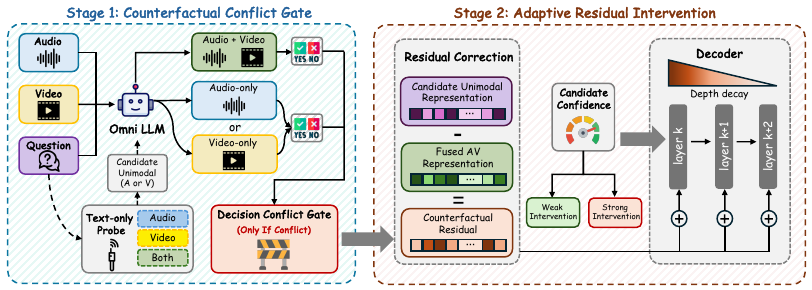
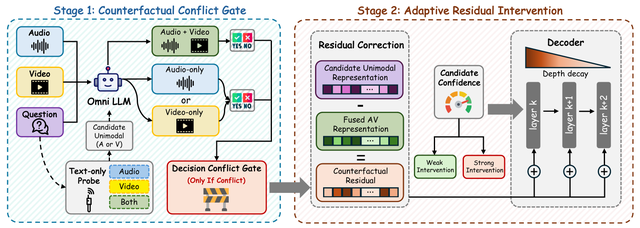
Add high-resolution paper figures with click-to-zoom dialog

diff --git a/index.html b/index.html
@@ -83,7 +83,7 @@
           <div class="section-heading"><h2 id="publications-title">Selected Publications</h2><a class="section-link" href="https://scholar.google.com/citations?user=WNUBh34AAAAJ">Google Scholar<svg class="icon inline-arrow" aria-hidden="true"><use href="#icon-arrow"/></svg></a></div>
           <div class="publication-list">
             <article class="publication" aria-labelledby="care-title">
-              <a class="paper-figure" href="https://www.alphaxiv.org/abs/2610.18141" aria-label="Read CaRe on alphaXiv"><img src="assets/images/care.png" width="812" height="290" alt="CaRe framework: conflict-aware counterfactual probing and residual intervention for modality misrouting." loading="lazy" decoding="async"></a>
+              <button class="paper-figure" type="button" aria-label="Enlarge CaRe figure"><img src="assets/images/care.png" data-full-src="assets/images/care-large.png" width="640" height="228" alt="CaRe framework: conflict-aware counterfactual probing and residual intervention for modality misrouting." loading="lazy" decoding="async"></button>
               <div class="paper-content">
                 <h3 id="care-title"><a href="https://www.alphaxiv.org/abs/2610.18141">Mitigating Cross-Modal Hallucinations by Correcting Modality Misrouting in Omnimodal LLMs</a></h3>
                 <p class="authors"><strong>Yu Mi</strong>, Licheng Pan, Jiayi Zhu, et al.</p>
@@ -94,7 +94,7 @@
             </article>
 
             <article class="publication" aria-labelledby="scope-title">
-              <a class="paper-figure" href="https://www.alphaxiv.org/abs/2610.38391" aria-label="Read SCOPE on alphaXiv"><img src="assets/images/scope.png" width="1032" height="486" alt="SCOPE framework for learning error localization and selectively distilling corrections at critical steps." loading="lazy" decoding="async"></a>
+              <button class="paper-figure" type="button" aria-label="Enlarge SCOPE figure"><img src="assets/images/scope.png" data-full-src="assets/images/scope-large.png" width="640" height="304" alt="SCOPE framework for learning error localization and selectively distilling corrections at critical steps." loading="lazy" decoding="async"></button>
               <div class="paper-content">
                 <h3 id="scope-title"><a href="https://www.alphaxiv.org/abs/2610.38391">SCOPE: Selective Critical-Step On-Policy Self-Distillation for Agentic Reinforcement Learning</a></h3>
                 <p class="authors">Qirui Liu, Wei Cao, <strong>Yu Mi</strong>, et al.</p>
@@ -107,7 +107,7 @@
             </article>
 
             <article class="publication" aria-labelledby="lfrag-title">
-              <a class="paper-figure" href="https://www.alphaxiv.org/abs/2605.22829" aria-label="Read LFRAG on alphaXiv"><img src="assets/images/lfrag.png" width="1008" height="327" alt="LFRAG framework for layout-aware block-level retrieval and multimodal document question answering." loading="lazy" decoding="async"></a>
+              <button class="paper-figure" type="button" aria-label="Enlarge LFRAG figure"><img src="assets/images/lfrag.png" data-full-src="assets/images/lfrag-large.png" width="640" height="206" alt="LFRAG framework for layout-aware block-level retrieval and multimodal document question answering." loading="lazy" decoding="async"></button>
               <div class="paper-content">
                 <h3 id="lfrag-title"><a href="https://www.alphaxiv.org/abs/2605.22829">LFRAG: Layout-oriented Fine-grained Retrieval-Augmented Generation on Multimodal Document Understanding</a></h3>
                 <p class="authors">Yifan Zhu, <strong>Yu Mi</strong>, Yue Lu, Yanchu Guan, Zhixuan Chu</p>
@@ -119,7 +119,7 @@
             </article>
 
             <article class="publication" aria-labelledby="lsc-title">
-              <a class="paper-figure" href="https://www.alphaxiv.org/abs/2601.19918" aria-label="Read LSC on alphaXiv"><img src="assets/images/lsc.png" width="451" height="332" alt="Algorithm 1 from the LSC paper: reconstruct words, average adjacent-word confidence, and select the least confident span." loading="lazy" decoding="async"></a>
+              <button class="paper-figure" type="button" aria-label="Enlarge LSC figure"><img src="assets/images/lsc.png" data-full-src="assets/images/lsc-large.png" width="640" height="478" alt="Algorithm 1 from the LSC paper: reconstruct words, average adjacent-word confidence, and select the least confident span." loading="lazy" decoding="async"></button>
               <div class="paper-content">
                 <h3 id="lsc-title"><a href="https://www.alphaxiv.org/abs/2601.19918">Lowest Span Confidence: Zero-Shot Hallucination Detection from a Single LLM Response</a></h3>
                 <p class="authors">Yitong Qiao, Licheng Pan, <strong>Yu Mi</strong>, Lei Liu, et al.</p>
@@ -130,7 +130,7 @@
             </article>
 
             <article class="publication" aria-labelledby="eopsa-title">
-              <a class="paper-figure" href="https://www.alphaxiv.org/abs/2609.34519" aria-label="Read EOPSA on alphaXiv"><img src="assets/images/eopsa.png" width="811" height="324" alt="EOPSA framework with adaptive rollout scheduling and selective distillation of safety-critical tokens." loading="lazy" decoding="async"></a>
+              <button class="paper-figure" type="button" aria-label="Enlarge EOPSA figure"><img src="assets/images/eopsa.png" data-full-src="assets/images/eopsa-large.png" width="640" height="262" alt="EOPSA framework with adaptive rollout scheduling and selective distillation of safety-critical tokens." loading="lazy" decoding="async"></button>
               <div class="paper-content">
                 <h3 id="eopsa-title"><a href="https://www.alphaxiv.org/abs/2609.34519">EOPSA: Efficient On-Policy Self-Distilled Safety Alignment</a></h3>
                 <p class="authors">Qirui Liu, Yichen Sun, Yan Wang, <strong>Yu Mi</strong>, et al.</p>

diff --git a/figure-preview.js b/figure-preview.js
@@ -2,69 +2,44 @@
   const figures = document.querySelectorAll('.paper-figure');
   if (!figures.length) return;
 
-  const preview = document.createElement('div');
+  const preview = document.createElement('dialog');
   preview.className = 'figure-preview';
-  preview.hidden = true;
-  preview.setAttribute('aria-hidden', 'true');
+  preview.id = 'figure-preview';
+  preview.setAttribute('aria-label', 'Enlarged paper figure');
+
   const enlarged = document.createElement('img');
-  enlarged.alt = '';
   enlarged.decoding = 'async';
   preview.append(enlarged);
   document.body.append(preview);
 
-  function hide() {
-    preview.hidden = true;
-  }
+  let opener = null;
 
-  function show(figure) {
-    const image = figure.querySelector('img');
-    if (!image) return;
-    const margin = 16;
-    const frame = 26; // Two 12px paddings and two 1px borders.
-    const headerBottom = document.querySelector('.site-header')?.getBoundingClientRect().bottom ?? 0;
-    const topLimit = Math.max(margin, headerBottom + 12);
-    const maxWidth = Math.min(900, window.innerWidth - margin * 2) - frame;
-    const maxHeight = Math.min(620, window.innerHeight - topLimit - margin) - frame;
-    if (maxWidth < 80 || maxHeight < 80) return hide();
-
-    const sourceWidth = image.naturalWidth || image.width;
-    const sourceHeight = image.naturalHeight || image.height;
-    if (!sourceWidth || !sourceHeight) return hide();
-    const scale = Math.min(1, maxWidth / sourceWidth, maxHeight / sourceHeight);
-    const width = sourceWidth * scale + frame;
-    const height = sourceHeight * scale + frame;
-    const rect = figure.getBoundingClientRect();
-    const left = Math.max(margin, Math.min(rect.right + 14, window.innerWidth - width - margin));
-    const top = Math.max(topLimit, Math.min(rect.top + (rect.height - height) / 2, window.innerHeight - height - margin));
-
-    const source = image.currentSrc || image.src;
-    if (enlarged.src !== source) enlarged.src = source;
-    Object.assign(preview.style, {
-      width: `${width}px`, height: `${height}px`,
-      left: `${left}px`, top: `${top}px`,
-    });
-    preview.hidden = false;
+  function close() {
+    preview.close();
   }
 
   figures.forEach(figure => {
-    figure.addEventListener('pointerenter', event => {
-      if (event.pointerType !== 'touch' && window.matchMedia('(any-hover: hover)').matches) show(figure);
+    figure.setAttribute('aria-haspopup', 'dialog');
+    figure.setAttribute('aria-controls', preview.id);
+    figure.addEventListener('click', () => {
+      const image = figure.querySelector('img');
+      if (!image || preview.open) return;
+      opener = figure;
+      enlarged.src = image.dataset.fullSrc || image.currentSrc || image.src;
+      enlarged.alt = image.alt;
+      preview.showModal();
+      document.documentElement.classList.add('figure-preview-open');
     });
-    figure.addEventListener('pointerleave', hide);
-    figure.addEventListener('focus', () => {
-      if (figure.matches(':focus-visible')) show(figure);
-    });
-    figure.addEventListener('blur', hide);
-    figure.addEventListener('click', hide);
   });
-  window.addEventListener('scroll', () => {
-    const focused = document.activeElement;
-    if (!preview.hidden && focused?.matches('.paper-figure:focus-visible')) show(focused);
-    else hide();
-  }, { passive: true });
-  window.addEventListener('resize', hide);
-  window.addEventListener('blur', hide);
-  window.addEventListener('keydown', event => {
-    if (event.key === 'Escape') hide();
+
+  // A backdrop click targets the dialog; clicking the image keeps it open.
+  preview.addEventListener('click', event => {
+    if (event.target === preview) close();
   });
+  preview.addEventListener('close', () => {
+    document.documentElement.classList.remove('figure-preview-open');
+    opener?.focus({ preventScroll: true });
+    opener = null;
+  });
+  // Native dialog handles Escape, focus trapping, and an inert background.
 })();

diff --git a/styles.css b/styles.css
@@ -78,14 +78,16 @@ main section { margin-bottom: 38px; }
 .section-link { font-size: 12px; white-space: nowrap; }
 .publication-list { border-top: 1px solid var(--rule); }
 .publication { display: grid; grid-template-columns: 170px minmax(0, 1fr); gap: 24px; padding: 25px 0; border-bottom: 1px solid var(--rule); }
-.paper-figure { display: flex; align-items: center; justify-content: center; align-self: start; margin-top: 3px; min-height: 100px; padding: 6px; border: 1px solid var(--rule); border-radius: 4px; background: #fff; transition: border-color .15s ease; }
+.paper-figure { display: flex; align-items: center; justify-content: center; align-self: start; width: 100%; margin-top: 3px; min-height: 100px; padding: 6px; border: 1px solid var(--rule); border-radius: 4px; background: #fff; font: inherit; cursor: zoom-in; transition: border-color .15s ease; }
 .paper-figure:hover { border-color: #9aafb9; }
+.paper-figure:focus-visible { outline: 2px solid var(--accent); outline-offset: 5px; }
 .paper-figure img { width: 100%; height: auto; object-fit: contain; }
-.figure-preview { position: fixed; z-index: 25; padding: 12px; border: 1px solid #d8e2e8; border-radius: 10px; background: #fff; box-shadow: 0 12px 44px #26343d30, 0 2px 8px #26343d12; pointer-events: none; }
-.figure-preview[hidden] { display: none; }
-.figure-preview:not([hidden]) { animation: figure-reveal .18s ease-out; }
-.figure-preview img { width: 100%; height: 100%; object-fit: contain; }
-@keyframes figure-reveal { from { opacity: 0; transform: translateY(5px) scale(.98); } to { opacity: 1; transform: translateY(0) scale(1); } }
+.figure-preview-open { overflow: hidden; }
+.figure-preview { position: fixed; inset: 0; width: fit-content; height: fit-content; max-width: calc(100vw - 32px); max-height: calc(100dvh - 96px); margin: auto; padding: 0; border: 0; overflow: visible; background: transparent; color: #fff; }
+.figure-preview::backdrop { background: #17293699; -webkit-backdrop-filter: blur(8px); backdrop-filter: blur(8px); }
+.figure-preview[open] { animation: figure-reveal .2s ease-out; }
+.figure-preview img { display: block; width: auto; height: auto; max-width: min(1100px, calc(100vw - 48px)); max-height: calc(100dvh - 112px); border: 10px solid #fff; border-radius: 10px; background: #fff; object-fit: contain; box-shadow: 0 20px 80px #0004; }
+@keyframes figure-reveal { from { opacity: 0; } to { opacity: 1; } }
 .paper-content { min-width: 0; }
 .paper-content h3 { margin: -3px 0 6px; font-size: 15.5px; line-height: 1.5; }
 .authors { margin-bottom: 7px; color: var(--muted); font-size: 12.5px; line-height: 1.7; }
@@ -158,7 +160,7 @@ footer a { color: var(--muted); }
 @media (prefers-reduced-motion: reduce) {
   html { scroll-behavior: auto; }
   .paper-figure, .avatar-inner, .top-nav a, .nav-indicator { transition: none; }
-  .figure-preview:not([hidden]) { animation: none; }
+  .figure-preview[open] { animation: none; }
 }
 @media print {
   .page-layout { width: 100%; display: block; margin: 0; }
